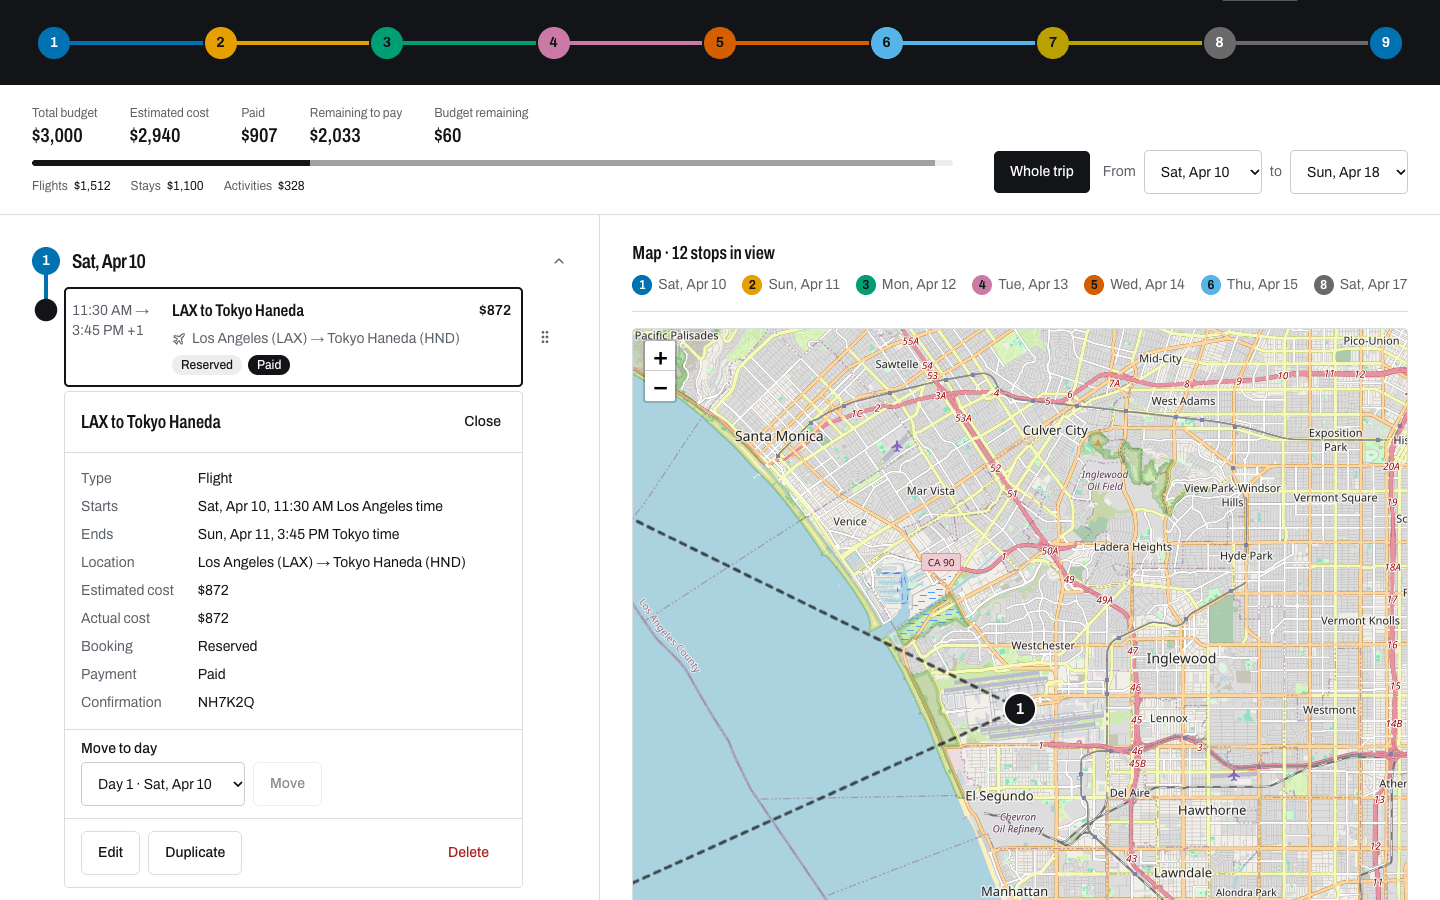
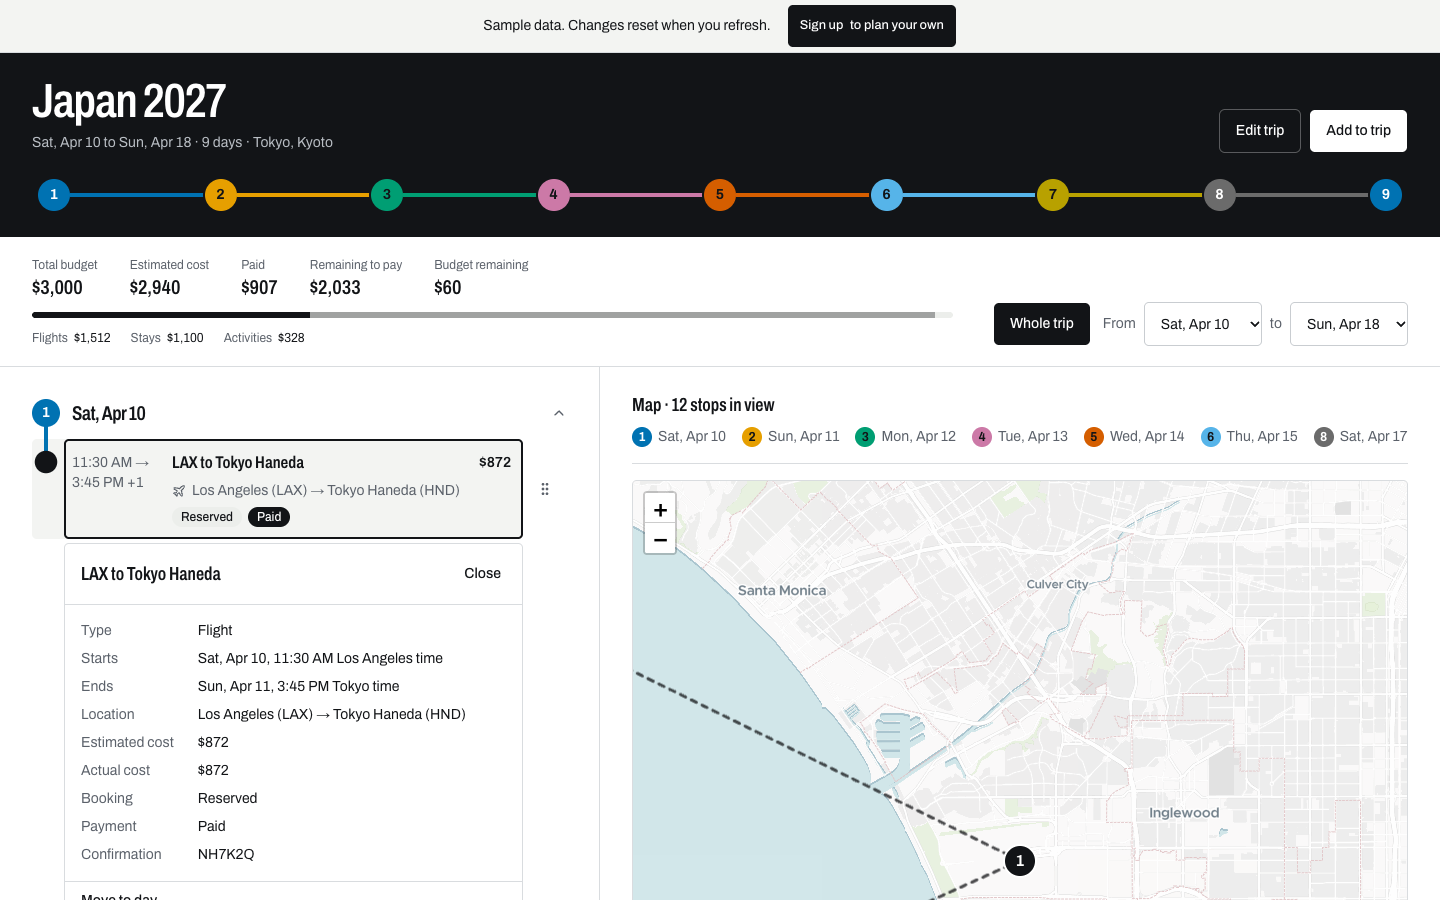
docs: portfolio README with live link and fresh screenshots

diff --git a/README.md b/README.md
@@ -1,75 +1,147 @@
 # Tripboard
 
-A travel planning web app: one trip workspace with a day-by-day itinerary, a map companion and a budget summary.
+A travel planner that keeps a whole trip in one place: a day-by-day itinerary, a synced map and a running budget.
 
-**Status: working demo and accounts.** `/demo` runs the trip workspace end to end on a seeded, in-memory trip (Japan 2027): day-by-day itinerary, item details (a bottom sheet on phones), date range filter, budget summary, adding, editing, duplicating and deleting flights, stays and activities, collapsible days, drag and drop within and between days (mouse, touch and keyboard) with a "Move to day" fallback, and a Leaflet map with numbered pins, route lines and flight arcs that stays in sync with the itinerary. It includes system dark mode, readable city-based time zone labels, spending totals by item type and a text warning when a trip is over budget. Changes reset on refresh. Signed-in users get the same workspace on Supabase: email/password authentication, upcoming and past trip groups, and trip creation, editing and deletion. Row Level Security keeps every trip private to its owner, and the account data contract runs end to end against a dedicated Supabase test account.
+**[Live app](https://tripboard-coral.vercel.app)** · **[Try the demo (no sign-up)](https://tripboard-coral.vercel.app/demo)**
+
+![Tripboard desktop workspace in light mode: itinerary and flight details beside the route map](docs/screenshots/demo-desktop-light.png)
+
+## Features
+
+**Itinerary**
+- Flights, stays and activities as cards, grouped by day, with booking and payment status
+- Add, edit, duplicate and delete items; collapsible days; a date range filter for the whole trip or a slice of it
+- Drag and drop within a day or between days, with a "Move to day" control as a non-drag alternative
+- Times shown in each place's own time zone (for example a Los Angeles departure and a Tokyo arrival)
+
+**Map**
+- Numbered pins and per-day colored routes, with flight arcs between cities
+- Selecting an item centers the map on it, and the map follows the active date range
+
+**Budget**
+- Total budget, estimated cost, paid, remaining to pay and budget remaining
+- Spending by item type, and a text warning when the trip is over budget
+
+**Accounts**
+- Email and password sign-up and sign-in on Supabase
+- Upcoming and past trip groups; create, edit and delete trips
+- Every trip is private to its owner (Row Level Security)
+- `/demo` runs the same workspace on a seeded, in-memory trip; changes reset on refresh
+
+**Mobile and accessibility**
+- Phone layout with an Itinerary / Map toggle and a bottom sheet for item details
+- Touch and keyboard drag, with screen reader announcements
+- Follows the system dark mode
+
+## Tech stack
+
+| Area | Choice | Why |
+|---|---|---|
+| Framework | Next.js 16 (App Router), React 19, TypeScript | Routing, server rendering and typed end to end |
+| Styling | Tailwind CSS 4, Base UI primitives | Accessible unstyled components with custom styling |
+| Data | Supabase (Postgres, Auth, Row Level Security) | Per-user data with the access rules enforced in the database |
+| Client state | TanStack Query | Caching and optimistic updates |
+| Forms | React Hook Form, Zod | Schema validation shared with the domain types |
+| Drag and drop | dnd-kit | Pointer, touch and keyboard sensors |
+| Maps | Leaflet, react-leaflet, MapTiler tiles | Lightweight map with a swappable tile provider |
+| Dates | Luxon | Time zone aware times |
+| Testing | Vitest, Playwright | Unit and repository tests; browser flows across devices |
+| Hosting | Vercel | Deploys from GitHub on every merge to main |
+
+## Engineering highlights
+
+- **One repository interface, two backends.** The UI talks to a `Repository` interface. An in-memory `DemoRepository` powers `/demo`; a `SupabaseRepository` powers accounts. A single contract test runs against both, so they stay interchangeable.
+- **Row Level Security.** Authorization lives in Postgres policies, not in app code. `supabase/tests/rls_isolation.sql` checks that one user cannot read or change another user's trips.
+- **Optimistic updates with rollback.** Reordering and moving items updates the UI immediately through TanStack Query and restores the previous state if the write fails.
+- **Pure, tested logic.** Time zone conversion, budget totals, item ordering and map path building are plain functions in `src/lib/`, with no date, money or ordering math inside components. 173 unit tests cover them.
+- **Accessible drag and drop.** Keyboard and touch sensors, custom screen reader announcements for pickup and drop, focus returned to the moved item, and a "Move to day" fallback for anyone who does not drag.
+- **Swappable map tiles.** The tile URL and attribution come from environment variables, so the provider can change without a code change.
 
 ## Screenshots
 
-![Tripboard landing page with the demo call to action and Japan 2027 route overview](docs/screenshots/landing-page.png)
+**Desktop**
 
-### Demo workspace
+| Light | Dark |
+|---|---|
+| ![Desktop workspace in light mode](docs/screenshots/demo-desktop-light.png) | ![Desktop workspace in dark mode](docs/screenshots/demo-desktop-dark.png) |
 
-![Tripboard desktop workspace in light mode with a selected flight's details beside the route map](docs/screenshots/demo-desktop-light.png)
-
-![Tripboard desktop workspace in dark mode with a selected flight's details beside the route map](docs/screenshots/demo-desktop-dark.png)
-
-### Phone views
+**Phone**
 
 | Itinerary | Map |
 |---|---|
-| ![Tripboard phone itinerary showing the budget and first trip days](docs/screenshots/demo-phone-itinerary.png) | ![Tripboard phone map view showing the day legend and route map](docs/screenshots/demo-phone-map.png) |
+| ![Phone itinerary with budget and the first trip days](docs/screenshots/demo-phone-itinerary.png) | ![Phone map view with day legend and route](docs/screenshots/demo-phone-map.png) |
 
-## Stack
+**Landing page**
 
-- Next.js 16 App Router, React 19 and TypeScript
-- Tailwind CSS 4 with shadcn-style primitives built on Base UI
-- Supabase Postgres and Auth behind a shared repository interface
-- TanStack Query for server data and optimistic updates
-- React Hook Form and Zod for forms and validation
-- dnd-kit for sortable itinerary items
-- Leaflet and react-leaflet for maps; Luxon for dates and time zones
-- Vitest for logic and repository tests; Playwright for browser flows
+![Landing page with the demo call to action and the Japan 2027 route overview](docs/screenshots/landing-page.png)
 
-UI state stays in React components. Zustand was dropped because it was unused.
+## Testing
 
-## Run
+```bash
+npm test          # Vitest: 173 unit and repository tests
+npm run e2e       # Playwright on Chromium (starts the dev server)
+npm run e2e:all   # Playwright on every configured project
+```
 
-    npm install
-    npm run dev        # http://localhost:3000
-    npm test           # Vitest
-    npm run e2e        # Playwright (starts the dev server)
-    npx next typegen   # generates route types (e.g. LayoutProps) so `tsc --noEmit` passes before a build
+- **Unit tests** cover time zones, budget math, ordering, map paths, form validation and the demo repository.
+- **Repository contract** runs against the Supabase repository too when `TEST_USER_EMAIL` and `TEST_USER_PASSWORD` for a dedicated test account are set in `.env.local`. It deletes that account's trips afterwards and is skipped otherwise.
+- **End-to-end tests** cover the landing page, the demo workspace, item add/edit/delete, moving items, the map and signed-in account flows.
+- **Browser projects:** Chromium, WebKit, iPhone 13, Pixel 7 and a tablet viewport run with `npm run e2e:all`. Firefox is configured as well.
 
-Copy `.env.example` to `.env.local` and fill in the Supabase project URL and publishable key (Project Settings → API Keys). Without them the demo still works, and the account pages say accounts are unavailable.
+## Run locally
 
-The database schema lives in `supabase/migrations/`. `supabase/tests/rls_isolation.sql` checks that one user can't read or change another user's trips (AUTH-5): paste it into the Supabase SQL Editor, it rolls itself back. `npm test` also runs the repository contract against Supabase when `.env.local` has `TEST_USER_EMAIL` and `TEST_USER_PASSWORD` for a dedicated test account (it deletes that account's trips afterwards), and skips it otherwise. `e2e/account.spec.ts` uses the same account to drive the signed-in flows in a browser (it deletes only the trips it creates); its sign-up test registers a throwaway `tripboard-e2e-…@example.com` user on each run.
+```bash
+npm install
+cp .env.example .env.local
+npm run dev        # http://localhost:3000
+```
 
+The demo at `/demo` works without any environment variables. For accounts, set these in `.env.local`:
 
-## Layout
+| Variable | Purpose |
+|---|---|
+| `NEXT_PUBLIC_SUPABASE_URL` | Supabase project URL |
+| `NEXT_PUBLIC_SUPABASE_PUBLISHABLE_KEY` | Supabase publishable key |
+| `NEXT_PUBLIC_MAP_TILE_URL` | Optional. Tile URL template, defaults to OpenStreetMap |
+| `NEXT_PUBLIC_MAP_ATTRIBUTION` | Optional. Attribution for the tile provider |
 
-    docs/                       product docs (overview, PRD, technical) and design/plan notes
-    e2e/                        Playwright tests (landing, sign-in checks, demo flows)
-    supabase/seed/demo-trip.json  the demo trip, sparse (omitted columns default via itemDefaults)
-    src/app/                    routes: landing, /demo, /login, /signup, /trips, /trips/[tripId]
-    src/components/             trip, itinerary (cards, details, item form and dialogs), budget, map; primitives in ui/
-    src/lib/data/               Repository interface, in-memory DemoRepository, SupabaseRepository, provider, query hooks, shared contract test
-    src/lib/supabase/           Supabase clients for the browser and the server (src/proxy.ts refreshes the session)
-    supabase/migrations/        schema, constraints and Row Level Security
-    src/lib/{time,budget,ordering,map}/   pure, tested logic (no date, money or ordering math in components)
-    src/lib/items/              item form: validation, form <-> item conversion, placement, default time zone
-    src/test/                   test factories
-    src/types/                  Zod schemas and inferred types
+Scripts:
 
-`src/components/ui/` follows shadcn/ui conventions. `dialog`, `alert-dialog`, `input` and `label` were written by hand on top of `@base-ui/react` because the shadcn registry was unreachable when they were added; `npx shadcn add` can replace them later.
+```bash
+npm run dev       # development server
+npm run build     # production build
+npm start         # serve the production build
+npm run lint      # ESLint
+npm test          # Vitest
+npm run e2e       # Playwright (Chromium)
+npx next typegen  # generate route types; run before `tsc --noEmit`
+```
 
-Config files (`next.config.ts`, `tsconfig.json`, `vitest.config.ts`, `playwright.config.ts`, `components.json`, ...) stay at the root where the tools expect them. `AGENTS.md` and `CLAUDE.md` were generated by `create-next-app`.
+The database schema is in `supabase/migrations/`. To check row isolation, paste `supabase/tests/rls_isolation.sql` into the Supabase SQL Editor; it rolls itself back.
 
-## Future work
+## Project structure
 
-- Deploy the app and complete M6, using a production tile provider instead of OpenStreetMap's standard development tile server. Configure it with `NEXT_PUBLIC_MAP_TILE_URL` and `NEXT_PUBLIC_MAP_ATTRIBUTION`.
-- Add Google sign-in (AUTH-4, P1).
-- Add optional place search (GEO-1, P2) after choosing a provider and checking its current terms and pricing.
-- V2: import confirmation PDFs or screenshots into reviewable draft items, attach the source document and detect duplicates.
-- V3: add travel-time and schedule warnings, free-time blocks, an installable web app and privacy-aware read-only sharing.
-- Later: collaboration, expense splitting, recommendations, real routes, email import, a during-trip mode and a native app.
+```
+src/
+  app/                 routes: landing, /demo, /login, /signup, /trips, /trips/[tripId]
+  components/          trip, itinerary, budget, map, auth, and ui primitives
+  lib/
+    data/              Repository interface, DemoRepository, SupabaseRepository, query hooks
+    time/ budget/ ordering/ map/ items/ trips/   pure, tested logic
+    supabase/          browser and server clients
+  types/               Zod schemas and inferred types
+e2e/                   Playwright tests
+supabase/
+  migrations/          schema, constraints and Row Level Security
+  tests/               RLS isolation check
+  seed/                demo trip data
+docs/                  product docs and screenshots
+```
+
+## Roadmap
+
+- Google sign-in
+- Place search
+- Import booking PDFs and screenshots into reviewable draft items using AI
+- Travel-time and schedule warnings
+- Read-only trip sharing

diff --git a/TASKS.md b/TASKS.md
@@ -30,11 +30,19 @@ The user commits and pushes themselves (global CLAUDE.md). Workers do not commit
 | T6 | README: screenshots, stack, future work | V1 DoD | P0 | T4, T5 | DONE | Codex → Claude (Codex hit its limit) · ws 992ff879 / docs/readme-v1 | Integrated README (status, screenshots, stack, future work) + 5 screenshots in docs/screenshots |
 | T9 | Cross-browser and viewport regression (Firefox, WebKit, phones, tablet) | NFR-5, UX-1, UX-2 | P0 | T1, T2 | DONE | Codex → Claude · ws a96e3063 / test/cross-browser | Projects: chromium, firefox, webkit, iphone-13, pixel-7, tablet (`npm run e2e:all`; `npm run e2e` stays chromium). 205 pass, 20 intentional skips (desktop-only checks on phones). Firefox doesn't launch on this Mac: run it in CI. Orchestrator fixes: dev badge off (it covered the phone sheet's Edit button), auth-form fill retry (WebKit hydration) |
 | T10 | Independent review of integrated T0–T5 diff (correctness, a11y, security, simplicity) | all | P0 | T5 | DONE | Codex → Claude · ws 437c5893 / review/integration-1 | No high/med findings. Kept: duplicate in-flight guard, focus on the copy, collapsing a day deselects its item. Fixed a test Codex broke. Integrated; 173 unit, 45/45 e2e |
-| T7 | Deploy to Vercel, production map tiles | M6 | P0 | all | BLOCKED | | Needs user approval (production deploy, tile provider terms) |
+| T7 | Deploy to Vercel, production map tiles | M6 | P0 | all | DONE | user | Live at https://tripboard-coral.vercel.app, MapTiler Dataviz tiles, key restricted to localhost + the Vercel domain |
+| P1 | Link preview, app icon, MapTiler logo (free-plan requirement) | V1 DoD | P0 | T7 | DONE | Codex · feat/link-preview-map-logo | Static opengraph-image.png, icon.svg, apple-icon.png; logo only when tiles are MapTiler |
+| P2 | Portfolio README and fresh screenshots | V1 DoD | P0 | T7 | DONE | Sonnet subagent | Screenshots predate the map logo |
+| P3 | Ponytail cleanup: shared e2e helpers | – | – | – | DONE | orchestrator | e2e/helpers.ts; account spec now gets the drag-centering fix |
+| A1 | Password reset, email-link landing, unconfirmed-email message | AUTH-1..3 | P0 | – | DONE | Codex · feat/password-reset | token_hash flow (/auth/confirm), /forgot-password, /reset-password. Needs user: Resend SMTP, Confirm email on, two email templates |
+| A2 | Keep the free Supabase project awake | NFR | P0 | T7 | DONE | orchestrator | Daily Vercel cron → /api/keepalive |
+| A3 | Remove disposable test users; sign-up test no longer creates users | – | – | – | DONE | orchestrator | Deleted 94 tripboard-e2e users (approved). Sign-up e2e mocks Supabase |
 | T8 | Sign in with Google | AUTH-4 | P1 | – | BLOCKED | | Needs Google OAuth client configured in Supabase by the user |
 | – | Place search | GEO-1 | P2 | – | BACKLOG | | Deferred per PRD |
 
 ## Decisions
+
+- 2026-10-28: Codex workers run gpt-6.1-sol (no gpt-6.1-terra exists). Known flake: move.spec "drops onto a collapsed day" on WebKit, about 1 in 30 under load; body unchanged from main.
 
 - 2026-10-15: Claude usage is low, so new workers (T9, T6, reviews) run on Codex. Running Claude workers finish their tasks.
 
